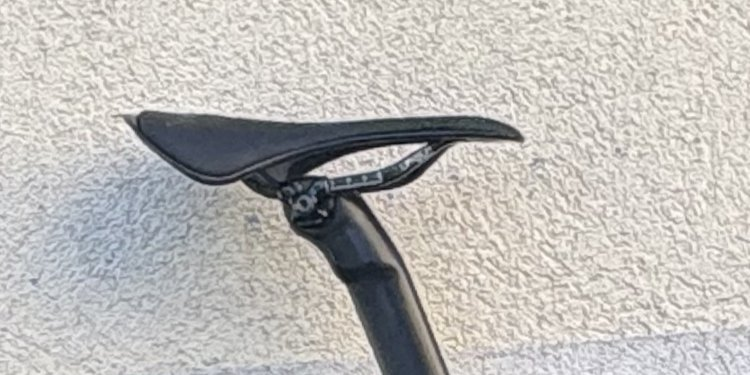
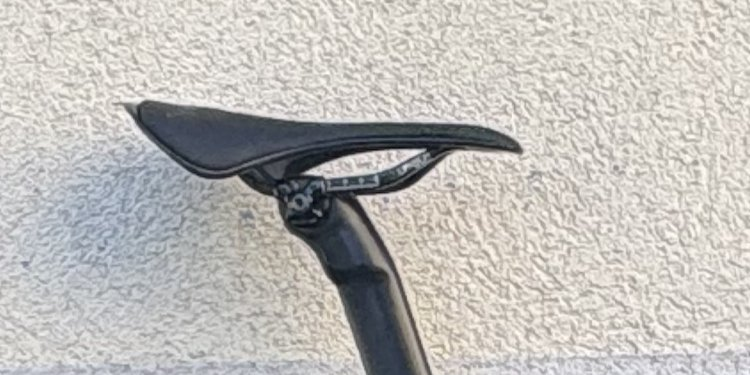
Guide position : selle visiblement inclinée vers le bas
Claude-Session: https://claude.ai/code/session_01CF2jaboUoMHuGRqeoxJoGa

diff --git a/index.html b/index.html
@@ -563,11 +563,11 @@ h2.two span{display:block;color:var(--muted)}
       <div class="gbody"><p>Installe ton vélo sur home-trainer et vérifie qu’il est de niveau : l’axe de la roue avant doit être à la même hauteur que l’axe de la roue arrière. Mesure du sol à chaque axe et cale la roue avant si besoin. Mets ton cuissard et tes chaussures de vélo.</p>
 <p>Prévois une clé Allen, un mètre, un niveau à bulle et un fil à plomb (une ficelle avec un écrou au bout suffit). Vérifie que tes cales sont bien réglées : l’axe du gros orteil doit tomber sur le milieu de la cale, qui est marqué dessus.</p><button type="button" class="pill dark sm gdone">C’est fait, étape suivante</button></div></details>
     <details class="gstep" data-i="1"><summary><span class="gn">2</span><b>Incline légèrement la selle</b><span class="gok">✓</span></summary>
-      <div class="gbody"><figure class="gfig"><svg viewBox="0 0 750 375" class="gsvg" style="max-width:440px;border-radius:10px" aria-hidden="true"><image href="img/selle.jpg?v=2" x="0" y="0" width="750" height="375"/>
-<g transform="translate(0 11) rotate(2.6 330 112)"><rect x="80" y="98" width="500" height="15" rx="2" fill="#c89b62" stroke="#8a6534" stroke-width="2"/>
-<rect x="250" y="70" width="160" height="28" rx="5" fill="#f2c230" stroke="#272727" stroke-width="2.5"/>
-<rect x="312" y="76" width="36" height="16" rx="8" fill="#e9f5ec" stroke="#1f9d4c" stroke-width="2"/><circle cx="335" cy="84" r="5.5" fill="#1f9d4c"/></g>
-<text x="420" y="50" font-size="24" font-weight="700" fill="#d8341c" font-family="Inter,sans-serif">2 à 3° vers l’avant →</text></svg></figure><p>Pose une surface plate et rigide sur la selle, comme une planche ou une règle, de l’arrière jusqu’à la pointe. Pose ton niveau (ou l’appli niveau de ton téléphone) sur la planche. Règle la selle légèrement basculée vers l’avant, de 2 à 3°. Jamais la pointe vers le haut.</p><button type="button" class="pill dark sm gdone">C’est fait, étape suivante</button></div></details>
+      <div class="gbody"><figure class="gfig"><svg viewBox="0 0 750 375" class="gsvg" style="max-width:440px;border-radius:10px" aria-hidden="true"><image href="img/selle.jpg?v=3" x="0" y="0" width="750" height="375"/>
+<g transform="translate(0 8) rotate(5.9 330 120)"><rect x="80" y="104" width="500" height="15" rx="2" fill="#c89b62" stroke="#8a6534" stroke-width="2"/>
+<rect x="250" y="76" width="160" height="28" rx="5" fill="#f2c230" stroke="#272727" stroke-width="2.5"/>
+<rect x="312" y="82" width="36" height="16" rx="8" fill="#e9f5ec" stroke="#1f9d4c" stroke-width="2"/><circle cx="341" cy="90" r="5.5" fill="#1f9d4c"/></g>
+<text x="420" y="50" font-size="24" font-weight="700" fill="#d8341c" font-family="Inter,sans-serif">pointe vers le bas, 2 à 3° ↘</text></svg></figure><p>Pose une surface plate et rigide sur la selle, comme une planche ou une règle, de l’arrière jusqu’à la pointe. Pose ton niveau (ou l’appli niveau de ton téléphone) sur la planche. Règle la selle légèrement basculée vers l’avant, de 2 à 3°. Jamais la pointe vers le haut.</p><button type="button" class="pill dark sm gdone">C’est fait, étape suivante</button></div></details>
     <details class="gstep" data-i="2"><summary><span class="gn">3</span><b>Règle le recul de selle</b><span class="gok">✓</span></summary>
       <div class="gbody"><figure class="gfig"><svg viewBox="0 40 768 720" class="gsvg" style="max-width:460px;border-radius:10px" aria-hidden="true"><image href="img/velo-kops.jpg" x="0" y="40" width="768" height="720"/>
 <g stroke="#6b6862" stroke-linecap="round" stroke-linejoin="round" fill="none" opacity="0.55"><path d="M240 300 L366 459" stroke-width="44"/><path d="M366 459 L246 624" stroke-width="32"/><path d="M220 638 L308 656" stroke-width="20"/></g>

diff --git a/sw.js b/sw.js
@@ -1,5 +1,5 @@
 // Service worker : l'app s'ouvre même sans réseau.
-const CACHE='pm-training-v39';
+const CACHE='pm-training-v40';
 const SHELL=['./','index.html','manifest.webmanifest','icon-192.png','icon-512.png','apple-touch-icon.png','favicon-32.png','icon-maskable.png','img/logo-160.png','img/zones.jpg','img/position.jpg','img/offres.jpg','img/avis.jpg','img/coach.jpg','img/velo.jpg'];
 self.addEventListener('install',e=>{e.waitUntil(caches.open(CACHE).then(c=>c.addAll(SHELL)).then(()=>self.skipWaiting()))});
 self.addEventListener('activate',e=>{e.waitUntil(caches.keys().then(ks=>Promise.all(ks.filter(k=>k!==CACHE).map(k=>caches.delete(k)))).then(()=>self.clients.claim()))});
